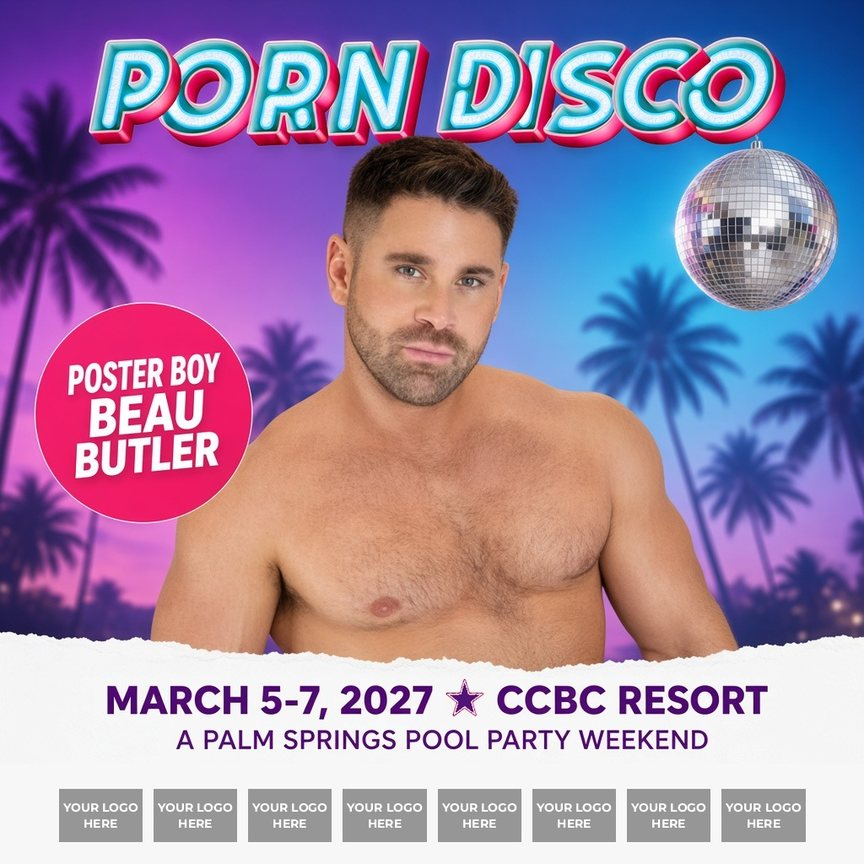
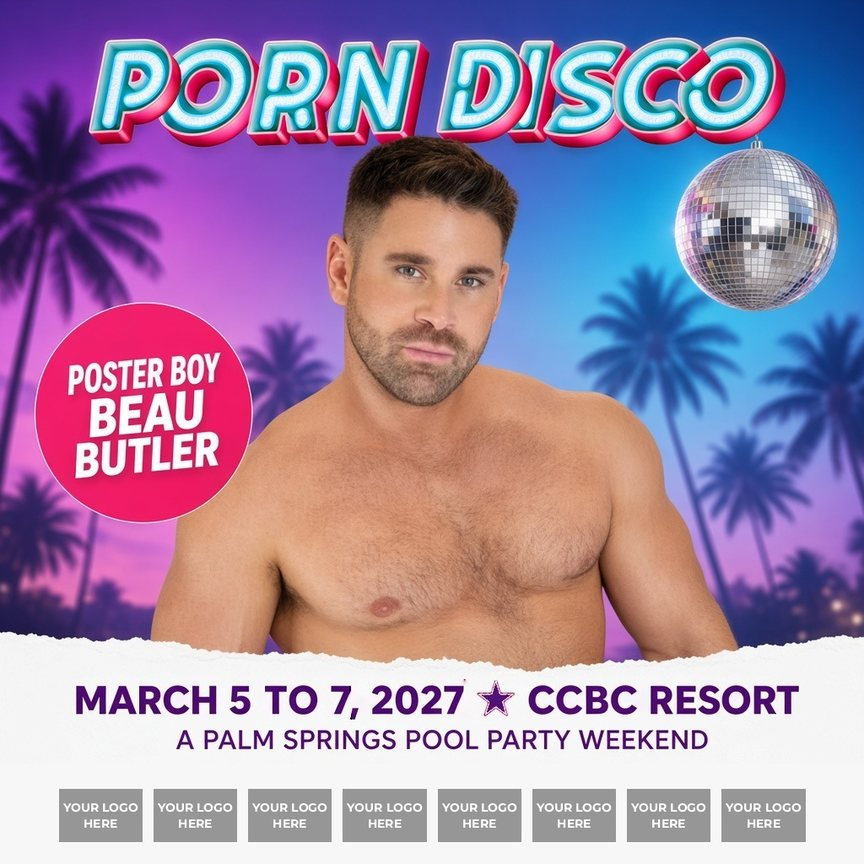
Nov 26: Tue-Tue dates, flat prices, 20+ creators, past events, category targets, no-dash posters

Changed region(s): [[0.0625, 0.7812, 0.9375, 0.8438]]

diff --git a/index.html b/index.html
@@ -1,6 +1,6 @@
 <!doctype html><html lang="en"><head><meta charset="utf-8"><meta name="viewport" content="width=device-width,initial-scale=1">
 <title>Porn Disco + Heat Week 2027 · Partnership Opportunities · DucatiX</title>
-<meta name="description" content="Porn Disco returns to CCBC Resort Hotel in Palm Springs, March 5 to 7, 2027. Heat Week runs March 2 to 8, with Porn Disco in the middle. Sponsorship opportunities from DucatiX.">
+<meta name="description" content="Porn Disco returns to CCBC Resort Hotel in Palm Springs, March 5 to 7, 2027. Heat Week runs March 2 to 9, with Porn Disco in the middle. Sponsorship opportunities from DucatiX.">
 <meta name="robots" content="noindex"><meta name="theme-color" content="#07090E"><link rel="icon" href="assets/ducatix-favicon.svg" type="image/svg+xml"><style>/* DucatiX brand skin. Type, palette, radius, buttons, header and footer follow www.ducatix.com
    (fonts self-hosted from fontwork/, logos local in assets/). */
[1 lines of base64/hex data omitted]
@@ -250,25 +250,25 @@ tbody tr:last-child td,tbody tr:last-child th{font-weight:700;color:var(--cyan)}
 <figure class="hero-art"><img src="assets/hero_pdhw.jpg" alt="Split key art: neon Porn Disco pool party at night beside a sunlit Heat Week desert pool, with both date ranges" width="1280" height="504"></figure>
 <div class="hero-copy">
 <div class="hero-intro"><p class="eyebrow">DucatiX · Partnership opportunities · 2027</p>
-<h1>Porn Disco is back. A sexy, pornstar-studded day-into-night party. Heat Week, on set all week, with Porn Disco in the middle.</h1><p class="lede">Porn Disco returns to CCBC Resort Hotel in Palm Springs, Friday, March 5 to Sunday, March 7, 2027. Heat Week, on set all week, Tuesday, March 2 to Monday, March 8, with Porn Disco in the middle. Two moments. One Palm Springs week. Put your brand in the room.</p></div>
+<h1>Porn Disco is back. A sexy, pornstar-studded day-into-night party. Heat Week, on set all week, with Porn Disco in the middle.</h1><p class="lede">Porn Disco returns to CCBC Resort Hotel in Palm Springs, Friday, March 5 to Sunday, March 7, 2027. Heat Week, on set all week, Tuesday, March 2 to Tuesday, March 9, with Porn Disco in the middle. Two moments. One Palm Springs week. Put your brand in the room.</p></div>
 <div class="hero-actions">
 <div class="date-pills">
 <div class="pill pill-pd"><span class="pill-k">Porn Disco</span><span class="pill-v">Fri, Mar 5 to Sun, Mar 7, 2027</span><span class="pill-s">B2C pool party + nightlife</span></div>
-<div class="pill pill-hw"><span class="pill-k">Heat Week</span><span class="pill-v">Tue, Mar 2 to Mon, Mar 8, 2027</span><span class="pill-s">B2B creator residency + collab house</span></div></div>
+<div class="pill pill-hw"><span class="pill-k">Heat Week</span><span class="pill-v">Tue, Mar 2 to Tue, Mar 9, 2027</span><span class="pill-s">B2B creator residency + collab house</span></div></div>
 <p class="hero-sup">Presented by DucatiX. Built for partners who want to be seen by fans at the party, and by creators on set all week during Heat Week.</p>
 <div class="cta-row"><a class="btn btn-pd" href="#inquire">Request a partnership deck</a><a class="btn btn-ghost" href="#tiers">See the tiers</a></div>
 <p class="venue-line">CCBC Resort Hotel · Palm Springs, CA</p></div></div>
 </div></section>
 <section class="photostrip" aria-label="CCBC Resort Hotel photos"><div class="strip-row"><figure><img src="assets/ccbc_expedia_01.jpg" alt="CCBC Resort Hotel: the pool after dark" loading="lazy"><figcaption>The pool after dark</figcaption></figure><figure><img src="assets/ccbc_expedia_03.jpg" alt="CCBC Resort Hotel: neon palms" loading="lazy"><figcaption>Neon palms</figcaption></figure><figure><img src="assets/ccbc_expedia_06.jpg" alt="CCBC Resort Hotel: the lawn at night" loading="lazy"><figcaption>The lawn at night</figcaption></figure><figure><img src="assets/ccbc_expedia_04.jpg" alt="CCBC Resort Hotel: runway bar" loading="lazy"><figcaption>Runway Bar</figcaption></figure><figure><img src="assets/ccbc_expedia_07.jpg" alt="CCBC Resort Hotel: lit up till late" loading="lazy"><figcaption>Lit up till late</figcaption></figure><figure><img src="assets/ccbc_expedia_02.jpg" alt="CCBC Resort Hotel: garden paths" loading="lazy"><figcaption>Garden paths</figcaption></figure></div><p class="strip-note">Real photos of CCBC Resort Hotel, Palm Springs, after dark</p></section>
 <section id="events" class="section"><div class="wrap"><p class="eyebrow">Two moments, kept distinct</p>
-<h2>A weekend the fans feel.<br>A week the industry works.</h2><p class="section-lede">Porn Disco and Heat Week share a resort and a week. They are not the same event, and they are not sold as one blur.</p>
+<h2>A weekend the fans feel.<br>A week the industry works.</h2><p class="section-lede">Porn Disco and Heat Week share a resort and a week. They are not the same event. One package covers the full week.</p>
 <div class="duo">
 <article class="event event-pd"><figure class="event-photo"><img src="assets/night_pool_branded.jpg" alt="CCBC pool at night with sponsor banners and the neon CCBC sign" loading="lazy" style="object-position:center 60%"></figure><div class="event-top"><span class="tag">B2C · Pool party + nightlife</span><h3>Porn Disco</h3><p class="event-dates">Friday, March 5 to Sunday, March 7, 2027</p></div>
 <p><strong>Porn Disco</strong> is the fan-facing party. Friday, March 5 to Sunday, March 7, 2027, at CCBC Resort Hotel, a clothing-optional gay resort in Palm Springs. This is the public pool party and night-life weekend: a Meat &amp; Greet kickoff, foam and pool, a DJ, live shows, and late-night energy that runs from day into night. It is where fans meet the talent, and where a brand can live on the grounds, on the stage, and in the content that leaves the party.</p><ul class="ticks"><li>Fans meet the talent</li><li>Foam, pool, DJ and live shows</li><li>Day-into-night energy</li></ul></article>
-<article class="event event-hw"><figure class="event-photo"><img src="assets/ccbc_expedia_13.jpg" alt="Pink CCBC guest room exterior with a patio" loading="lazy"></figure><div class="event-top"><span class="tag">B2B · Creator residency + collab house</span><h3>Heat Week</h3><p class="event-dates">Tuesday, March 2 to Monday, March 8, 2027</p></div>
-<p><strong>Heat Week</strong> is the industry week, on set all week, with Porn Disco in the middle. Tuesday, March 2 to Monday, March 8, 2027, at the same resort. This is a creator residency and collab house: a hosted group of performers staying at the resort, filming throughout the property, and a quieter, more useful week for brands that want creator access, on-site production, and recruitment, not just a logo on a banner.</p><ul class="ticks"><li>Creator access</li><li>On-site production</li><li>Recruitment</li></ul></article>
+<article class="event event-hw"><figure class="event-photo"><img src="assets/ccbc_expedia_13.jpg" alt="Pink CCBC guest room exterior with a patio" loading="lazy"></figure><div class="event-top"><span class="tag">B2B · Creator residency + collab house</span><h3>Heat Week</h3><p class="event-dates">Tuesday, March 2 to Tuesday, March 9, 2027</p></div>
+<p><strong>Heat Week</strong> is the industry week, on set all week, with Porn Disco in the middle. Tuesday, March 2 to Tuesday, March 9, 2027, at the same resort. This is a creator residency and collab house: a hosted group of performers staying at the resort, filming throughout the property, and a quieter, more useful week for brands that want creator access, on-site production, and recruitment, not just a logo on a banner.</p><ul class="ticks"><li>Creator access</li><li>On-site production</li><li>Recruitment</li></ul></article>
 </div>
-<p class="section-close">Sponsors can show up for the weekend the fans feel, stay for the week the industry works, or do both. The two stories stay distinct on this site, in the deck, and in every pitch.</p>
+<p class="section-close">Sponsors are in for the full week: the weekend the fans feel and the week the industry works. The two stories stay distinct on this site, in the deck, and in every pitch.</p>
 </div></section>
 <section id="own" class="section section-own"><div class="wrap"><p class="eyebrow">Where your brand lives</p><h2>What your brand can own</h2><p class="section-lede">23 ways in, across the party weekend, the creator week and every morning in between. Each one comes with its own placement at CCBC.</p>
 <div class="own-group own-party"><div class="own-head"><h3>At the Party</h3><span class="own-dates">Porn Disco · Fri Mar 5 to Sun Mar 7</span><span class="own-count">15 activations</span></div><div class="own-grid">
@@ -286,34 +286,34 @@ tbody tr:last-child td,tbody tr:last-child th{font-weight:700;color:var(--cyan)}
 <article class="act"><figure><img src="assets/act_13.jpg" alt="In-room TVs: branded placement at CCBC" loading="lazy" style="object-position:center 50%"><span class="act-n">12</span></figure><div class="act-copy"><h4>In-room TVs</h4><p class="act-desc">Your ad playing in guest rooms all weekend.</p><p class="act-feel">Back in the room, your ad is the first thing on screen.</p></div></article>
 <article class="act"><figure><img src="assets/act_14.jpg" alt="Room gifts: branded placement at CCBC" loading="lazy" style="object-position:center 50%"><span class="act-n">13</span></figure><div class="act-copy"><h4>Room gifts</h4><p class="act-desc">Your product waiting in guest rooms.</p><p class="act-feel">Your gift is waiting on the pillow when they check in.</p></div></article>
 <article class="act"><figure><img src="assets/act_15.jpg" alt="Sponsor booths: branded placement at CCBC" loading="lazy" style="object-position:center 50%"><span class="act-n">14</span></figure><div class="act-copy"><h4>Sponsor booths</h4><p class="act-desc">Your own space on the grounds to hand out swag and meet guests face to face.</p><p class="act-feel">Open booths stacked with your swag, staffed by a couple of hot guys.</p></div></article>
-<article class="act"><figure><img src="assets/act_16.jpg" alt="Travel and bathhouse activations: steam grotto at night with a lit YOUR LOGO HERE partner wall, branded placement at CCBC" loading="lazy" style="object-position:center 50%"><span class="act-n">15</span></figure><div class="act-copy"><h4>Travel and bathhouse activations</h4><p class="act-desc">Packages and perks that bring guests to Palm Springs and keep the night going.</p><p class="act-feel">Guests come for the party, stay for the trip, and end the night at the bathhouse.</p></div></article>
+<article class="act"><figure><img src="assets/act_16.jpg" alt="Travel and bathhouse activations: branded placement at CCBC" loading="lazy" style="object-position:center 50%"><span class="act-n">15</span></figure><div class="act-copy"><h4>Travel and bathhouse activations</h4><p class="act-desc">Packages and perks that bring guests to Palm Springs and keep the night going.</p><p class="act-feel">Guests come for the party, stay for the trip, and end the night at the bathhouse.</p></div></article>
 </div></div>
-<div class="own-group own-hw"><div class="own-head"><h3>At Heat Week</h3><span class="own-dates">Heat Week · Tue Mar 2 to Mon Mar 8</span><span class="own-count">7 activations</span></div><div class="own-grid">
-<article class="act"><figure><img src="assets/act_17.jpg" alt="Residency sponsorship: branded placement at CCBC" loading="lazy" style="object-position:center 50%"><span class="act-n">16</span></figure><div class="act-copy"><h4>Residency sponsorship</h4><p class="act-desc">Your name on a week of 15+ creators living and working at the resort.</p><p class="act-feel">Fifteen creators, one week, your name over all of it.</p></div></article>
+<div class="own-group own-hw"><div class="own-head"><h3>At Heat Week</h3><span class="own-dates">Heat Week · Tue Mar 2 to Tue Mar 9</span><span class="own-count">7 activations</span></div><div class="own-grid">
+<article class="act"><figure><img src="assets/act_17.jpg" alt="Residency sponsorship: branded placement at CCBC" loading="lazy" style="object-position:center 50%"><span class="act-n">16</span></figure><div class="act-copy"><h4>Residency sponsorship</h4><p class="act-desc">Your name on a week of 20+ creators living and working at the resort.</p><p class="act-feel">20+ creators, one week, your name over all of it.</p></div></article>
 <article class="act"><figure><img src="assets/act_18.jpg" alt="Product in creator content: branded placement at CCBC" loading="lazy" style="object-position:center 50%"><span class="act-n">17</span></figure><div class="act-copy"><h4>Product in creator content</h4><p class="act-desc">Your product in the content made on site, filmed throughout the property.</p><p class="act-feel">Cameras roll across the resort and your product is in frame.</p></div></article>
 <article class="act"><figure><img src="assets/act_19.jpg" alt="Recruiting and onboarding: branded placement at CCBC" loading="lazy" style="object-position:center 50%"><span class="act-n">18</span></figure><div class="act-copy"><h4>Recruiting and onboarding</h4><p class="act-desc">Time with creators on site to sign them to your platform.</p><p class="act-feel">Coffee, poolside and real conversations that end in sign-ups.</p></div></article>
 <article class="act"><figure><img src="assets/act_20.jpg" alt="Live cam suites: branded placement at CCBC" loading="lazy" style="object-position:center 50%"><span class="act-n">19</span></figure><div class="act-copy"><h4>Live cam suites</h4><p class="act-desc">A broadcast residency, with creators streaming from the resort all week.</p><p class="act-feel">Lights on, creators live from the resort all week.</p></div></article>
 <article class="act"><figure><img src="assets/act_21.jpg" alt="Themed branded creator room: branded placement at CCBC" loading="lazy" style="object-position:center 50%"><span class="act-n">20</span></figure><div class="act-copy"><h4>Themed branded creator room</h4><p class="act-desc">A creator room built around your brand, seen in everything filmed there.</p><p class="act-feel">A room styled in your look, seen in every scene shot there.</p></div></article>
 <article class="act"><figure><img src="assets/act_22.jpg" alt="Creator gifting: branded placement at CCBC" loading="lazy" style="object-position:center 50%"><span class="act-n">21</span></figure><div class="act-copy"><h4>Creator gifting</h4><p class="act-desc">Your product in the hands of every resident creator.</p><p class="act-feel">Every creator opens your box on day one.</p></div></article>
-<article class="act"><figure><img src="assets/act_23.jpg" alt="Heat Week partner list: lit HEAT WEEK PARTNERS logo wall on the walkway as creators carry gear past, branded placement at CCBC" loading="lazy" style="object-position:center 50%"><span class="act-n">22</span></figure><div class="act-copy"><h4>Heat Week partner list</h4><p class="act-desc">Your logo on the official partner list for the week.</p><p class="act-feel">Your logo on the wall every creator walks past.</p></div></article>
+<article class="act"><figure><img src="assets/act_23.jpg" alt="Heat Week partner list: branded placement at CCBC" loading="lazy" style="object-position:center 50%"><span class="act-n">22</span></figure><div class="act-copy"><h4>Heat Week partner list</h4><p class="act-desc">Your logo on the official partner list for the week.</p><p class="act-feel">Your logo on the wall every creator walks past.</p></div></article>
 </div></div>
-<div class="own-group own-week"><div class="own-head"><h3>Across the week</h3><span class="own-dates">Mar 2 to 8</span><span class="own-count">1 activation</span></div><div class="own-grid">
+<div class="own-group own-week"><div class="own-head"><h3>Across the week</h3><span class="own-dates">Mar 2 to 9</span><span class="own-count">1 activation</span></div><div class="own-grid">
 <article class="act"><figure><img src="assets/act_24.jpg" alt="Naked Pornstar Morning Yoga: CCBC Resort Hotel" loading="lazy" style="object-position:center 50%"><span class="act-n">23</span></figure><div class="act-copy"><h4>Naked Pornstar Morning Yoga</h4><p class="act-desc">A named morning session your brand presents.</p><p class="act-feel">Sunrise on the lawn, mats down, a naked class under your banner.</p></div></article>
 </div></div>
 <p class="fineprint">Sponsor placements show YOUR LOGO HERE until a partner signs.</p></div></section>
 <section id="tiers" class="section section-photo" style="--bg:url(assets/night_pool_branded.jpg)"><div class="wrap"><p class="eyebrow">Partnership levels</p><h2>Partnership tiers</h2><p class="section-lede">One exclusive Platinum. Two Gold. Silver and Bronze stay open so more than one partner can come in at those levels.</p><div class="tiers">
 <article class="tier tier-platinum"><div class="tier-head"><h3>Platinum</h3><span class="slots">1 partner</span></div>
-<p class="price">$12,000 to $15,000</p><p class="cov cov-both">Both events</p><p>The presenting partner for the week. Category exclusivity at the top of the house. Title or stage presence, the strongest on-site footprint, in-room TVs playing sponsor ads all weekend, a branded room, room gift placement, and first right to the largest activations. Runs across both Porn Disco and Heat Week.</p></article>
+<p class="price">$12,000</p><p class="cov cov-both">Full week.</p><p>A cash sponsorship for the whole week. The presenting partner for the week. Category exclusivity at the top of the house. Title or stage presence, the strongest on-site footprint, in-room TVs playing sponsor ads all weekend, a branded room, room gift placement, and first right to the largest activations. Covers the whole week, with Porn Disco as the headline weekend inside Heat Week.</p></article>
 <article class="tier tier-gold"><div class="tier-head"><h3>Gold</h3><span class="slots">2 partners</span></div>
-<p class="price">$7,500</p><p class="cov cov-both">Both events</p><p>Major presence on the grounds and in the program, with a named activation, strong banner and booth placement, and room in the content package. Runs across both Porn Disco and Heat Week.</p></article>
+<p class="price">$7,500</p><p class="cov cov-both">Full week.</p><p>A cash sponsorship for the whole week. Major presence on the grounds and in the program, with a named activation, strong banner and booth placement, and room in the content package. Covers the whole week, with Porn Disco as the headline weekend inside Heat Week.</p></article>
 <article class="tier tier-silver"><div class="tier-head"><h3>Silver</h3><span class="slots">Open</span></div>
-<p class="price">$2,500 to $5,000</p><p class="cov cov-choice">Your choice of Porn Disco or Heat Week</p><p>Your choice of Porn Disco or Heat Week, not both. A clear on-site presence: banners or a booth, logo in the official lineup, and a defined activation such as the Meet the Stars photo booth or roaming shot bartenders, depending on the package.</p></article>
+<p class="price">$3,500</p><p class="cov cov-both">Full week.</p><p>A cash sponsorship for the whole week. A clear on-site presence: banners or a booth, logo in the official lineup, and one defined activation such as the Meet the Stars photo booth or roaming shot bartenders, depending on the package.</p></article>
 <article class="tier tier-bronze"><div class="tier-head"><h3>Bronze</h3><span class="slots">Open</span></div>
-<p class="price">$500 to $1,500</p><p class="cov cov-choice">Your choice of Porn Disco or Heat Week</p><p>Your choice of Porn Disco or Heat Week, not both. Logo presence, room gift or sampling options, and a place in the official partner list.</p></article>
+<p class="price">$1,000</p><p class="cov cov-both">Full week.</p><p>A cash sponsorship for the whole week. Logo presence, room gift or sampling options, and a place in the official partner list.</p></article>
 </div>
-<aside class="hw-opt"><h3>Heat Week option for Silver and Bronze</h3><p>Partners who choose Heat Week trade weekend party inventory for residency presence: a themed branded creator room (Silver), product or room gifts for resident creators (Silver and Bronze), logo in the Heat Week partner list (Silver and Bronze), and a brand mention in residency content where creators agree (Silver). Final Heat Week inventory is confirmed in each proposal.</p></aside>
+<p class="section-close">You supply your banners and signs; we place them.</p>
 <details class="matrix"><summary>Compare tiers side by side</summary><div class="table-scroll"><table><thead><tr><th scope="col">Benefit</th><th scope="col">Platinum (1)</th><th scope="col">Gold (2)</th><th scope="col">Silver</th><th scope="col">Bronze</th></tr></thead><tbody>
-<tr><th scope="row">Package price</th><td>$12,000 to $15,000</td><td>$7,500</td><td>$2,500 to $5,000</td><td>$500 to $1,500</td></tr>
+<tr><th scope="row">Package price</th><td>$12,000</td><td>$7,500</td><td>$3,500</td><td>$1,000</td></tr>
 <tr><th scope="row">Category exclusivity</th><td>Yes, at the top of the house</td><td>Shared major presence</td><td>No</td><td>No</td></tr>
 <tr><th scope="row">Title or stage presenting</th><td>Yes</td><td>Limited</td><td>No</td><td>No</td></tr>
 <tr><th scope="row">In-room TVs playing sponsor ads all weekend</th><td>Yes</td><td>No</td><td>No</td><td>No</td></tr>
@@ -322,16 +322,16 @@ tbody tr:last-child td,tbody tr:last-child th{font-weight:700;color:var(--cyan)}
 <tr><th scope="row">Named activation (Meat &amp; Greet photo booth, roaming bartenders, runway, or other)</th><td>First choice</td><td>Yes</td><td>One defined activation</td><td>No</td></tr>
 <tr><th scope="row">Banner and booth footprint</th><td>Largest</td><td>Major</td><td>Standard</td><td>Logo only</td></tr>
 <tr><th scope="row">Official partner lineup and content package</th><td>Lead</td><td>Yes</td><td>Logo and mentions</td><td>Logo</td></tr>
-<tr><th scope="row">Event coverage</th><td>Both events</td><td>Both events</td><td>Your choice of Porn Disco or Heat Week</td><td>Your choice of Porn Disco or Heat Week</td></tr>
+<tr><th scope="row">Event coverage</th><td>Full week.</td><td>Full week.</td><td>Full week.</td><td>Full week.</td></tr>
 </tbody></table></div></details>
 </div></section>
 <section id="talent" class="section section-alt"><div class="wrap"><p class="eyebrow">Faces of the week</p><h2></h2>
-<div class="crowd-head"><p class="crowd-n"><span>15+</span>creators on site all week</p><p class="section-lede">From Tuesday of Heat Week through the Porn Disco weekend in the middle, a working group of 15+ creators stays at the resort. They are on set all week, and they party with the fans over the weekend. The four poster boys lead the lineup.</p></div>
+<div class="crowd-head"><p class="crowd-n"><span>20+</span>creators on site all week</p><p class="section-lede">From Tuesday of Heat Week through the Porn Disco weekend in the middle, a working group of 20+ creators stays at the resort. They are on set all week, and they party with the fans over the weekend. The four poster boys lead the lineup.</p></div>
 <p class="sub-eyebrow">Headliners</p>
 <figure class="faces-banner"><img src="assets/faces_of_the_week.jpg" alt="The faces of the week: Sean Xavier, Beau Butler, Rocky Unleashed and Jaxx Cody" loading="lazy" width="1600" height="600"></figure>
 <p class="sub-eyebrow">The rest of the house</p>
 <div class="crowd" aria-label="More creators to be announced"><div class="sil"><svg viewBox="0 0 100 100" aria-hidden="true" focusable="false"><circle cx="50" cy="34" r="17"/><path d="M14 100c0-24 16-40 36-40s36 16 36 40z"/></svg><span>To be announced</span></div><div class="sil"><svg viewBox="0 0 100 100" aria-hidden="true" focusable="false"><circle cx="50" cy="34" r="17"/><path d="M14 100c0-24 16-40 36-40s36 16 36 40z"/></svg><span>To be announced</span></div><div class="sil"><svg viewBox="0 0 100 100" aria-hidden="true" focusable="false"><circle cx="50" cy="34" r="17"/><path d="M14 100c0-24 16-40 36-40s36 16 36 40z"/></svg><span>To be announced</span></div><div class="sil"><svg viewBox="0 0 100 100" aria-hidden="true" focusable="false"><circle cx="50" cy="34" r="17"/><path d="M14 100c0-24 16-40 36-40s36 16 36 40z"/></svg><span>To be announced</span></div><div class="sil"><svg viewBox="0 0 100 100" aria-hidden="true" focusable="false"><circle cx="50" cy="34" r="17"/><path d="M14 100c0-24 16-40 36-40s36 16 36 40z"/></svg><span>To be announced</span></div><div class="sil"><svg viewBox="0 0 100 100" aria-hidden="true" focusable="false"><circle cx="50" cy="34" r="17"/><path d="M14 100c0-24 16-40 36-40s36 16 36 40z"/></svg><span>To be announced</span></div><div class="sil"><svg viewBox="0 0 100 100" aria-hidden="true" focusable="false"><circle cx="50" cy="34" r="17"/><path d="M14 100c0-24 16-40 36-40s36 16 36 40z"/></svg><span>To be announced</span></div><div class="sil"><svg viewBox="0 0 100 100" aria-hidden="true" focusable="false"><circle cx="50" cy="34" r="17"/><path d="M14 100c0-24 16-40 36-40s36 16 36 40z"/></svg><span>To be announced</span></div><div class="sil"><svg viewBox="0 0 100 100" aria-hidden="true" focusable="false"><circle cx="50" cy="34" r="17"/><path d="M14 100c0-24 16-40 36-40s36 16 36 40z"/></svg><span>To be announced</span></div><div class="sil"><svg viewBox="0 0 100 100" aria-hidden="true" focusable="false"><circle cx="50" cy="34" r="17"/><path d="M14 100c0-24 16-40 36-40s36 16 36 40z"/></svg><span>To be announced</span></div><div class="sil"><svg viewBox="0 0 100 100" aria-hidden="true" focusable="false"><circle cx="50" cy="34" r="17"/><path d="M14 100c0-24 16-40 36-40s36 16 36 40z"/></svg><span>To be announced</span></div><div class="sil sil-more"><b>+ more</b><span>Names announced soon</span></div></div>
-<div class="talent-notes"><p>2022 Meat &amp; Greet talent included Beau Butler, Devin Franco, Grant Ducati, Michael Boston, Drew Sebastian, and Roman Todd</p><p>Heat Week brings a wider group of creators in house at the resort for the week, making content, not only a single party appearance</p></div>
+<div class="talent-notes"><p>Heat Week puts 20+ creators in house all week, so your brand can show up in days of content, not only in a single party appearance</p></div>
 <p class="fineprint">Talent subject to final confirmation. More names announced soon.</p></div></section>
 <section id="venue" class="section"><div class="wrap"><p class="eyebrow">The venue</p><h2>CCBC Resort Hotel, Palm Springs</h2>
 <p class="section-lede">A clothing-optional gay resort in Palm Springs. One property for both moments: the pool deck and lawn carry the Porn Disco weekend, and during Heat Week filming happens throughout the property: the pool, the lawn, guest rooms and suites.</p>
@@ -354,21 +354,21 @@ tbody tr:last-child td,tbody tr:last-child th{font-weight:700;color:var(--cyan)}
 <section id="proof" class="section section-proof"><div class="wrap"><p class="eyebrow">Why it&rsquo;s real</p>
 <section class="chain" aria-label="Proof points"><div class="wrap chain-in">
 <div><span class="n">2</span><span class="l">Distinct events, one resort</span></div>
-<div><span class="n">7</span><span class="l">Days, Mar 2 to 8, 2027</span></div>
+<div><span class="n">8</span><span class="l">Days, Mar 2 to 9, 2027</span></div>
 <div><span class="n">1M+</span><span class="l">Views on the Fleshjack circle jerk video</span></div>
 <div><span class="n">1</span><span class="l">Exclusive Platinum partner</span></div></div></section>
-<p class="proof-line">Porn Disco ran in 2019 and 2022, with 2022 partners including Falcon | NakedSword, Perfect Fit, Flirt4Free, Squirt, TopFanVids, Fleshjack, Swiss Navy, GayVN and Andrew Christian. The Fleshjack video passed 1M views.</p></div></section>
-<section id="inquire" class="section section-cta"><div class="wrap form-grid"><div><p class="eyebrow">Sponsor inquiry</p><h2>Start a partnership conversation</h2><p class="section-lede">Tell us who you are and which part of the week you want to own. We will come back with a category-specific package.</p><p class="foot-line">Decks are going out from the start of December. The earlier we talk, the more of the week we can still shape around you.</p></div>
+<p class="proof-line">Past events included a Friday night Meat &amp; Greet, a foam party, a day-into-night pool party, and live demos by Cumunion and Fleshjack. Past partners include Falcon | NakedSword, Flirt4Free, Squirt, TopFanVids, Fleshjack, Swiss Navy, GayVN and Andrew Christian. The Fleshjack circle jerk video passed 1M views.</p></div></section>
+<section id="inquire" class="section section-cta"><div class="wrap form-grid"><div><p class="eyebrow">Sponsor inquiry</p><h2>Start a partnership conversation</h2><p class="section-lede">Tell us who you are and what you want to own. The ask is a cash sponsorship. We will come back with a category-specific package. Product donations are welcome on top of cash, not instead of it.</p><p class="foot-line">Decks are going out from the start of December. The earlier we talk, the more of the week we can still shape around you.</p></div>
 <form class="inq" id="inquiry-form" action="#" method="post" data-endpoint="pending" novalidate>
 <label for="company">Company<input id="company" name="company" type="text" autocomplete="organization" required></label>
 <label for="your-name">Your name<input id="your-name" name="your-name" type="text" autocomplete="name" required></label>
 <label for="work-email">Work email<input id="work-email" name="work-email" type="email" autocomplete="email" required></label>
 <label for="category">Category<select id="category" name="category" required><option value="">Select…</option><option>Fan and live cam</option><option>Health and wellness</option><option>Dating</option><option>Venues, bathhouses, and travel</option><option>Sex toys and merchandise</option><option>Other</option></select></label>
-<label for="interest" class="full">Interest<select id="interest" name="interest" required><option value="">Select…</option><option>Platinum</option><option>Gold</option><option>Silver</option><option>Bronze</option><option>Heat Week</option><option>Not sure yet</option></select></label>
+<label for="interest" class="full">Interest<select id="interest" name="interest" required><option value="">Select…</option><option>Platinum</option><option>Gold</option><option>Silver</option><option>Bronze</option><option>Add-on residency</option><option>Not sure yet</option></select></label>
 <label for="what-do-you-want-to-own" class="full">What do you want to own?<textarea id="what-do-you-want-to-own" name="what-do-you-want-to-own" rows="4" required></textarea></label>
 <div class="form-actions full"><button class="btn btn-pd" type="submit">Request a partnership deck</button><button class="btn btn-ghost" type="button" id="talk-btn">Talk to DucatiX about this week</button></div>
 <p class="form-status full" id="form-status" role="status" aria-live="polite"></p></form></div></section>
-</main><footer class="foot"><div class="wrap foot-in"><div><div class="foot-brand"><img src="assets/ducatix-events-lockup.svg" alt="Ducati X Events" class="foot-dx" width="340" height="70"><img src="assets/porn_disco_logo.png" alt="Porn Disco" class="foot-logo"></div><p>Porn Disco · Fri, Mar 5 to Sun, Mar 7, 2027<br>Heat Week · Tue, Mar 2 to Mon, Mar 8, 2027<br>CCBC Resort Hotel · Palm Springs, CA</p></div>
+</main><footer class="foot"><div class="wrap foot-in"><div><div class="foot-brand"><img src="assets/ducatix-events-lockup.svg" alt="Ducati X Events" class="foot-dx" width="340" height="70"><img src="assets/porn_disco_logo.png" alt="Porn Disco" class="foot-logo"></div><p>Porn Disco · Fri, Mar 5 to Sun, Mar 7, 2027<br>Heat Week · Tue, Mar 2 to Tue, Mar 9, 2027<br>CCBC Resort Hotel · Palm Springs, CA</p></div>
 <div><p>Presented by DucatiX. For industry partners, 18+.</p><p class="fineprint">No 2027 partners are confirmed on this page.</p></div></div></footer>
 <script>(function(){
 var tabs=[].slice.call(document.querySelectorAll('[role=tab]'));
